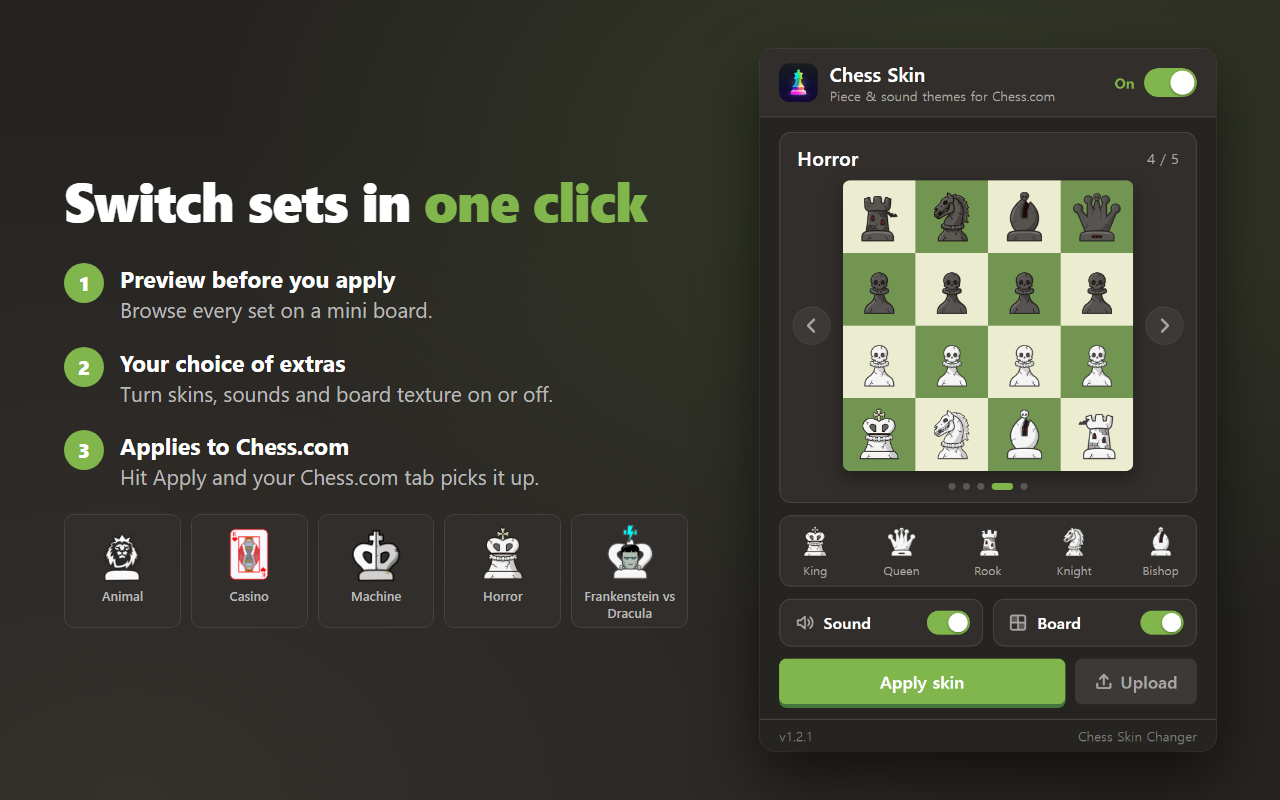
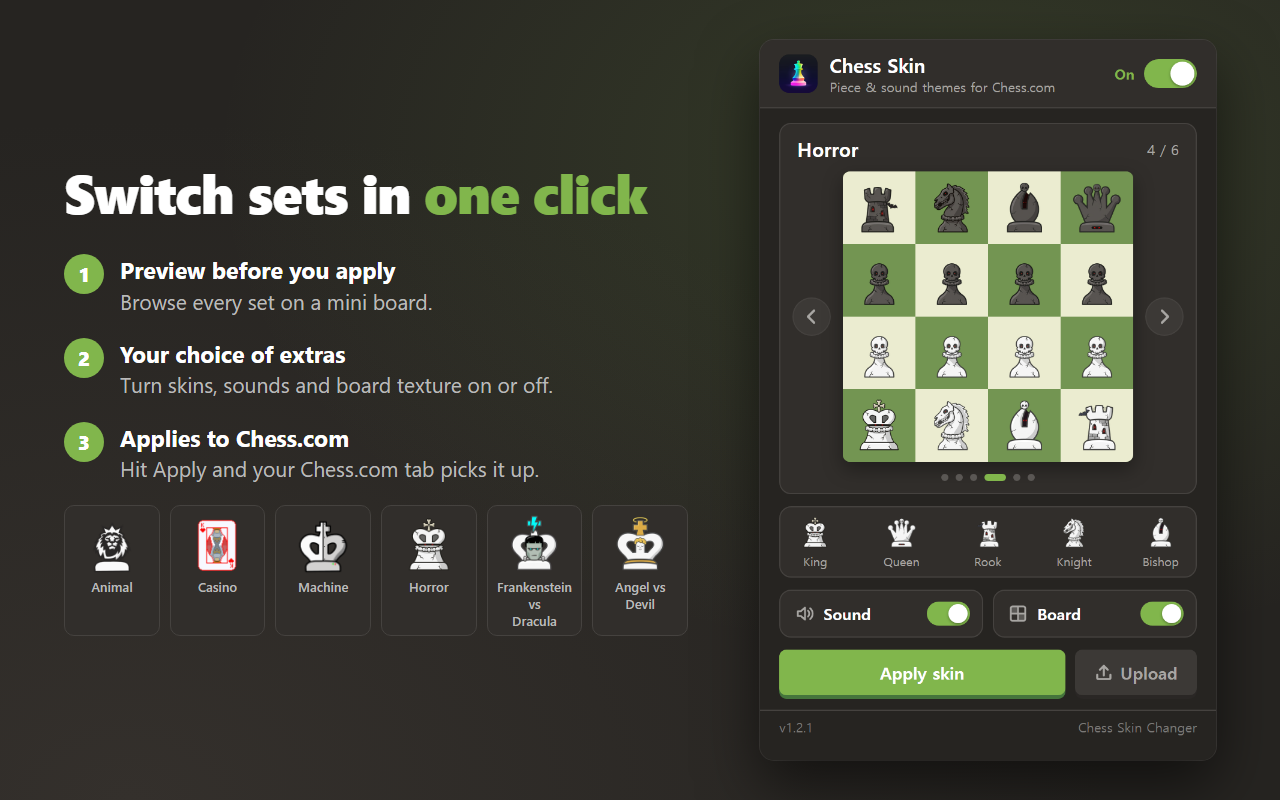
Store listing: six sets with Angel vs Devil
- Copy now lists six piece sets and describes Angel vs Devil (EN/KO)
- Store images say six sets, show all six kings, and use popup
  captures with the six-skin counter

diff --git a/store-listing/src/store-images.html b/store-listing/src/store-images.html
@@ -324,6 +324,7 @@
         { id: "machine", name: "Machine" },
         { id: "horror", name: "Horror" },
         { id: "frankenstein-dracula", name: "Frankenstein vs Dracula" },
+        { id: "angel-devil", name: "Angel vs Devil" },
       ];
 
       const piece = (skin, code) => `${SKINS}/${skin}/${code}.png`;
@@ -376,7 +377,7 @@
             <div style="display:flex;flex-direction:column;height:800px">
             <div style="padding:52px 64px 0">
               <h1>Reskin your <em>Chess.com</em> pieces</h1>
-              <p class="sub">5 themed piece sets · your own custom uploads · themed move sounds</p>
+              <p class="sub">6 themed piece sets · your own custom uploads · themed move sounds</p>
             </div>
             <div style="flex:1;display:flex;justify-content:space-between;align-items:center;padding:0 52px 8px">
               ${[
@@ -473,9 +474,9 @@
               </div>
               <div style="display:flex;justify-content:space-between;margin-top:26px">
                 ${SETS.map(
-                  (s) => `<div style="width:72px;height:72px;border-radius:10px;background:${
+                  (s) => `<div style="width:58px;height:58px;border-radius:10px;background:${
                     SETS.indexOf(s) % 2 ? "var(--dark-square)" : "var(--light-square)"
-                  }"><img src="${piece(s.id, "wk")}" style="width:72px;height:72px" /></div>`
+                  }"><img src="${piece(s.id, "wk")}" style="width:58px;height:58px" /></div>`
                 ).join("")}
               </div>
             </div>`,
@@ -491,7 +492,7 @@
                   <div style="font-size:26px;font-weight:800">Chess Skin Changer</div>
                 </div>
                 <h1>Reskin your <em>Chess.com</em> pieces</h1>
-                <p class="sub">5 themed sets, including the new Horror and Frankenstein vs Dracula.</p>
+                <p class="sub">6 themed sets, including the new Horror, Frankenstein vs Dracula and Angel vs Devil.</p>
               </div>
               <div style="display:flex;gap:24px">
                 ${board("horror", FEN.ruy, { size: 330, coords: false })}
